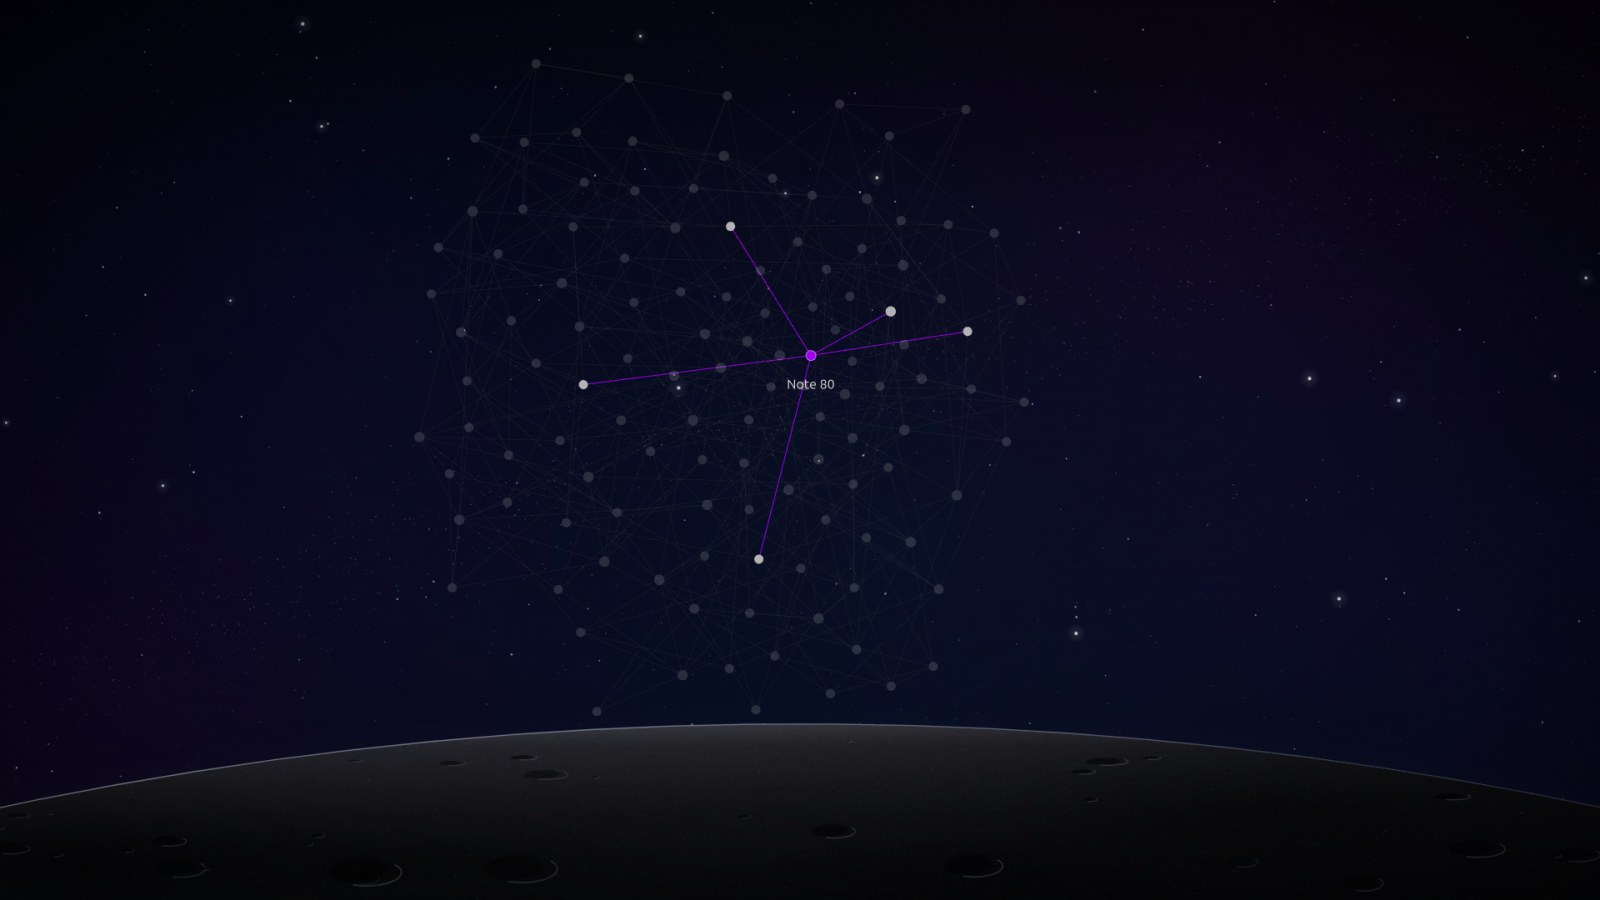
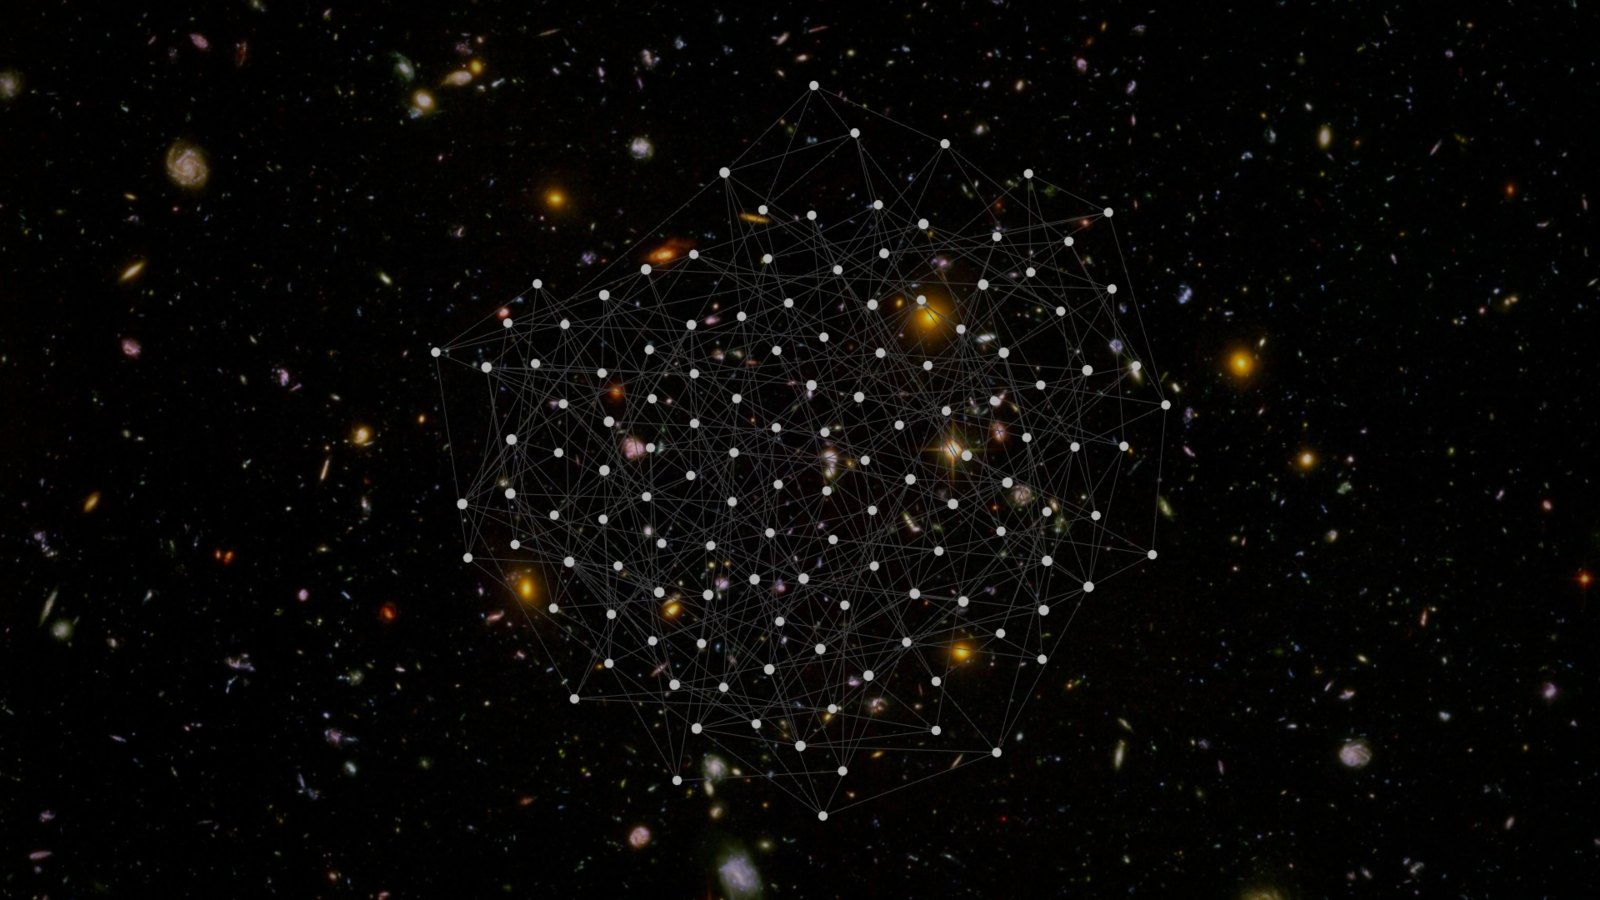
Remove the built-in Space background scene
The procedural space scene was dropped — a plugin should not ship a
baked-in backdrop. Backgrounds are now just the theme colour or an image
of your own (point it at any wallpaper, e.g. a NASA space photo). Trims
~190 lines. README hero reshot as a graph over a deep-space image.

diff --git a/main.js b/main.js
@@ -49,7 +49,7 @@ const DEFAULT_SETTINGS = {
   iconsOnTop: true, // true = sit behind the desktop icons and ignore the mouse (the lightweight default)
   fitPadding: 0.08,
   leafId: null,
-  background: 'space', // 'theme' | 'space' | 'image'
+  background: 'theme', // 'theme' | 'image'
   backgroundImage: '',
   backgroundDim: 0.2,
   nodeSize: 1,
@@ -344,193 +344,6 @@ function wallpaperSetting() {
   return null;
 }
 
-/* ---------- built-in space backdrop (drawn, not downloaded) ---------- */
-// <space-backdrop>
-
-// Deterministic pseudo-random numbers, so the sky is the same on every start.
-function seededRandom(seed) {
-  let a = seed >>> 0;
-  return () => {
-    a = (a + 0x6d2b79f5) | 0;
-    let t = Math.imul(a ^ (a >>> 15), 1 | a);
-    t = (t + Math.imul(t ^ (t >>> 7), 61 | t)) ^ t;
-    return ((t ^ (t >>> 14)) >>> 0) / 4294967296;
-  };
-}
-
-// Deep sky, a faint galactic band, stars, and a lunar horizon along the bottom edge.
-// Everything stays dark and low-contrast so graph nodes read as the brightest things in the scene.
-function drawSpaceBackdrop(canvas) {
-  const w = canvas.width, h = canvas.height;
-  const ctx = canvas.getContext('2d');
-  const random = seededRandom(20261115);
-  const unit = Math.max(w, h) / 1920;
-  const gaussian = () => (random() + random() + random() + random() - 2) / 2;
-
-  const sky = ctx.createLinearGradient(0, 0, 0, h);
-  sky.addColorStop(0, '#010208');
-  sky.addColorStop(0.6, '#040714');
-  sky.addColorStop(1, '#070b1a');
-  ctx.fillStyle = sky;
-  ctx.fillRect(0, 0, w, h);
-
-  // Nebula haze: a few very large, very faint colour clouds.
-  ctx.globalCompositeOperation = 'lighter';
-  const clouds = [
-    [0.2, 0.28, 0.52, '36,64,150'],
-    [0.76, 0.22, 0.46, '92,48,140'],
-    [0.56, 0.6, 0.58, '18,84,108'],
-    [0.08, 0.8, 0.38, '70,38,112'],
-    [0.92, 0.72, 0.42, '28,56,128'],
-  ];
-  for (const [x, y, r, rgb] of clouds) {
-    const g = ctx.createRadialGradient(x * w, y * h, 0, x * w, y * h, r * w);
-    g.addColorStop(0, `rgba(${rgb},0.15)`);
-    g.addColorStop(0.5, `rgba(${rgb},0.06)`);
-    g.addColorStop(1, `rgba(${rgb},0)`);
-    ctx.fillStyle = g;
-    ctx.fillRect(0, 0, w, h);
-  }
-
-  // Stars. Part of the faint ones gather along a diagonal band, like a galaxy seen edge-on.
-  const bandPoint = () => {
-    const t = random();
-    const spread = gaussian() * 0.11;
-    return [t * 1.2 - 0.1 + spread * 0.45, 0.82 - t * 0.74 + spread];
-  };
-  const tints = ['255,255,255', '205,220,255', '255,238,214', '190,205,255'];
-  const faint = Math.round((w * h) / 620);
-  for (let i = 0; i < faint; i++) {
-    const [x, y] = random() < 0.5 ? bandPoint() : [random(), random()];
-    const size = (0.35 + random() * 0.75) * unit;
-    ctx.fillStyle = `rgba(${tints[(random() * tints.length) | 0]},${0.1 + random() * 0.4})`;
-    ctx.fillRect(x * w, y * h, size, size);
-  }
-  const medium = Math.round((w * h) / 16000);
-  for (let i = 0; i < medium; i++) {
-    const x = random() * w, y = random() * h, r = (0.6 + random() * 0.7) * unit;
-    ctx.fillStyle = `rgba(${tints[(random() * tints.length) | 0]},${0.45 + random() * 0.4})`;
-    ctx.beginPath();
-    ctx.arc(x, y, r, 0, Math.PI * 2);
-    ctx.fill();
-  }
-  for (let i = 0; i < 16; i++) {
-    const x = random() * w, y = random() * h * 0.8, r = (1.1 + random() * 0.8) * unit;
-    const tint = tints[(random() * tints.length) | 0];
-    const glow = ctx.createRadialGradient(x, y, 0, x, y, r * 7);
-    glow.addColorStop(0, `rgba(${tint},0.5)`);
-    glow.addColorStop(0.25, `rgba(${tint},0.1)`);
-    glow.addColorStop(1, `rgba(${tint},0)`);
-    ctx.fillStyle = glow;
-    ctx.fillRect(x - r * 7, y - r * 7, r * 14, r * 14);
-    ctx.fillStyle = `rgba(${tint},0.95)`;
-    ctx.beginPath();
-    ctx.arc(x, y, r, 0, Math.PI * 2);
-    ctx.fill();
-  }
-  ctx.globalCompositeOperation = 'source-over';
-
-  // Lunar horizon: the top of a very large sphere, lit from the upper left.
-  const radius = w * 2.4;
-  const rise = h * 0.2;
-  const cx = w * 0.5, cy = h + radius - rise;
-  const horizon = () => {
-    ctx.beginPath();
-    ctx.arc(cx, cy, radius, Math.PI * 1.2, Math.PI * 1.8);
-  };
-  // Soft glow hugging the limb, drawn first so the surface covers its inner half.
-  ctx.save();
-  ctx.shadowColor = 'rgba(140,165,230,0.6)';
-  ctx.shadowBlur = 26 * unit;
-  ctx.strokeStyle = 'rgba(140,165,230,0.35)';
-  ctx.lineWidth = 2 * unit;
-  horizon();
-  ctx.stroke();
-  ctx.restore();
-
-  ctx.save();
-  ctx.beginPath();
-  ctx.arc(cx, cy, radius, 0, Math.PI * 2);
-  ctx.clip();
-  const ground = ctx.createLinearGradient(0, h - rise, 0, h);
-  ground.addColorStop(0, '#5a5d66');
-  ground.addColorStop(0.12, '#3a3c44');
-  ground.addColorStop(0.5, '#1d1e24');
-  ground.addColorStop(1, '#0c0d11');
-  ctx.fillStyle = ground;
-  ctx.fillRect(0, h - rise - 2, w, rise + 4);
-  // Light falls off to the right, away from the sun.
-  const falloff = ctx.createLinearGradient(0, 0, w, 0);
-  falloff.addColorStop(0, 'rgba(0,0,0,0)');
-  falloff.addColorStop(1, 'rgba(0,0,0,0.55)');
-  ctx.fillStyle = falloff;
-  ctx.fillRect(0, h - rise - 2, w, rise + 4);
-  const surfaceTop = (x) => cy - Math.sqrt(Math.max(radius * radius - (x - cx) * (x - cx), 0));
-  // Maria: a few broad, soft, darker plains.
-  for (let i = 0; i < 6; i++) {
-    const x = random() * w;
-    const top = surfaceTop(x);
-    const y = top + (h - top) * (0.25 + random() * 0.7);
-    const rx = (140 + random() * 260) * unit, ry = rx * (0.14 + random() * 0.12);
-    ctx.save();
-    ctx.translate(x, y);
-    ctx.scale(1, ry / rx);
-    const sea = ctx.createRadialGradient(0, 0, 0, 0, 0, rx);
-    sea.addColorStop(0, 'rgba(0,0,0,0.3)');
-    sea.addColorStop(1, 'rgba(0,0,0,0)');
-    ctx.fillStyle = sea;
-    ctx.fillRect(-rx, -rx, rx * 2, rx * 2);
-    ctx.restore();
-  }
-  // Regolith grain.
-  for (let i = 0; i < (w * rise) / 22; i++) {
-    const x = random() * w, y = h - random() * rise;
-    ctx.fillStyle = random() < 0.5 ? `rgba(255,255,255,${0.02 + random() * 0.05})` : `rgba(0,0,0,${0.05 + random() * 0.12})`;
-    ctx.fillRect(x, y, unit * (0.6 + random()), unit * (0.6 + random()));
-  }
-  // Craters, flattened by perspective: flatter near the horizon, rounder near the viewer.
-  // The wall nearest the sun is in shadow; the far wall catches the light.
-  for (let i = 0; i < 38; i++) {
-    const x = random() * w;
-    const top = surfaceTop(x);
-    const depth = Math.pow(random(), 1.5);
-    const y = top + (h - top) * (0.07 + depth * 0.93);
-    const rx = (5 + Math.pow(random(), 2.2) * 58) * unit * (0.35 + depth * 0.9);
-    const ry = rx * (0.15 + depth * 0.3);
-    const strength = 0.55 + random() * 0.45;
-    ctx.save();
-    ctx.beginPath();
-    ctx.ellipse(x, y, rx, ry, 0, 0, Math.PI * 2);
-    ctx.clip();
-    ctx.fillStyle = `rgba(8,9,12,${0.28 * strength})`;
-    ctx.fillRect(x - rx, y - ry, rx * 2, ry * 2);
-    ctx.fillStyle = `rgba(0,0,0,${0.5 * strength})`;
-    ctx.beginPath();
-    ctx.ellipse(x - rx * 0.34, y - ry * 0.22, rx * 0.95, ry * 0.95, 0, 0, Math.PI * 2);
-    ctx.fill();
-    ctx.restore();
-    ctx.lineWidth = Math.max(1, unit * (0.8 + rx * 0.025));
-    ctx.strokeStyle = `rgba(226,230,240,${0.26 * strength})`;
-    ctx.beginPath();
-    ctx.ellipse(x, y, rx, ry, 0, -Math.PI * 0.2, Math.PI * 0.62);
-    ctx.stroke();
-    ctx.strokeStyle = `rgba(0,0,0,${0.3 * strength})`;
-    ctx.beginPath();
-    ctx.ellipse(x, y, rx * 1.04, ry * 1.08, 0, Math.PI * 0.8, Math.PI * 1.62);
-    ctx.stroke();
-  }
-  ctx.restore();
-  // Sunlit limb, brightest toward the sun.
-  const edge = ctx.createLinearGradient(0, 0, w, 0);
-  edge.addColorStop(0, 'rgba(232,236,248,0.75)');
-  edge.addColorStop(0.6, 'rgba(214,220,236,0.4)');
-  edge.addColorStop(1, 'rgba(180,190,215,0.14)');
-  ctx.strokeStyle = edge;
-  ctx.lineWidth = Math.max(1, unit * 1.3);
-  horizon();
-  ctx.stroke();
-}
-// </space-backdrop>
 
 const shellQuote = (text) => `'${String(text).replace(/'/g, `'\\''`)}'`;
 
@@ -931,8 +744,7 @@ module.exports = class GraphWallpaperPlugin extends Plugin {
   /* ---------- picture behind the graph ---------- */
 
   backgroundMode() {
-    if (this.settings.background) return this.settings.background;
-    return (this.settings.backgroundImage || '').trim() ? 'image' : 'theme';
+    return this.settings.background === 'image' && (this.settings.backgroundImage || '').trim() ? 'image' : 'theme';
   }
 
   // The graph canvas is transparent, so a picture on the element behind it shows through.
@@ -940,24 +752,15 @@ module.exports = class GraphWallpaperPlugin extends Plugin {
     const container = this.leaf?.getContainer();
     const body = container?.doc?.body;
     if (!body) return;
-    const mode = this.backgroundMode();
-    if (mode === 'theme') {
+    if (this.backgroundMode() !== 'image') {
       body.classList.remove(IMAGE_CLASS);
       return;
     }
     try {
       const ratio = container.win.devicePixelRatio || 1;
-      let blob;
-      if (mode === 'space') {
-        const bounds = this.windowBounds(electronRemote());
-        const canvas = new OffscreenCanvas(Math.round(bounds.width * ratio), Math.round(bounds.height * ratio));
-        drawSpaceBackdrop(canvas);
-        blob = await canvas.convertToBlob({ type: 'image/jpeg', quality: 0.93 });
-      } else {
-        const file = (this.settings.backgroundImage || '').trim().replace(/^~(?=\/)/, os.homedir());
-        if (!file) throw new Error('no image file chosen');
-        blob = new Blob([await this.scaledBackground(file, ratio)], { type: 'image/jpeg' });
-      }
+      const file = (this.settings.backgroundImage || '').trim().replace(/^~(?=\/)/, os.homedir());
+      if (!file) throw new Error('no image file chosen');
+      const blob = new Blob([await this.scaledBackground(file, ratio)], { type: 'image/jpeg' });
       if (this.leaf?.getContainer() !== container) return;
       if (this.backgroundUrl) URL.revokeObjectURL(this.backgroundUrl);
       this.backgroundUrl = URL.createObjectURL(blob);
@@ -1422,12 +1225,9 @@ module.exports = class GraphWallpaperPlugin extends Plugin {
       const width = renderer.width * ratio, height = renderer.height * ratio;
       if (!width || !height) return;
       const pad = 1 - 2 * this.settings.fitPadding;
-      // The space scene has ground along the bottom; frame the graph in the sky above it.
-      const ground = this.backgroundMode() === 'space' ? 0.1 : 0;
-      const sky = height * (1 - ground);
-      const scale = Math.min((width * pad) / Math.max(maxX - minX, 1), (sky * pad) / Math.max(maxY - minY, 1));
+      const scale = Math.min((width * pad) / Math.max(maxX - minX, 1), (height * pad) / Math.max(maxY - minY, 1));
       const panX = width / 2 - ((minX + maxX) / 2) * scale;
-      const panY = sky / 2 - ((minY + maxY) / 2) * scale;
+      const panY = height / 2 - ((minY + maxY) / 2) * scale;
       const scaleDrift = Math.abs(scale / renderer.scale - 1);
       const panDrift = Math.max(Math.abs(panX - renderer.panX) / width, Math.abs(panY - renderer.panY) / height);
       if (!force && scaleDrift < 0.05 && panDrift < 0.03) return;
@@ -1504,11 +1304,10 @@ class GraphWallpaperSettingTab extends PluginSettingTab {
 
     new Setting(containerEl)
       .setName('Background')
-      .setDesc('What sits behind the graph.')
+      .setDesc('What sits behind the graph: your theme colour, or an image of your own.')
       .addDropdown((dropdown) =>
         dropdown
           .addOption('theme', 'Theme colour')
-          .addOption('space', 'Space')
           .addOption('image', 'Your image')
           .setValue(plugin.backgroundMode())
           .onChange(async (value) => {

diff --git a/README.md b/README.md
@@ -2,7 +2,7 @@
 
 Show your live Obsidian graph view as the desktop wallpaper, on Linux (X11) and Windows.
 
-![The graph wallpaper: an Obsidian graph over a starfield and lunar horizon](docs/screenshot.jpg)
+![Vault Graph Wallpaper: an Obsidian graph over a deep-space image](docs/screenshot.jpg)
 
 The wallpaper is a real Obsidian popout window showing the real graph view, so it has the same filters, colour groups, theme, CSS snippets and plugins as any other graph tab, and it updates as the vault changes. The plugin strips the window chrome and places the window on the desktop layer — under every other window, out of the taskbar and Alt+Tab.
 
@@ -29,7 +29,7 @@ Settings → Vault Graph Wallpaper (only the controls that apply to your setup a
 
 - **Show the graph wallpaper** — put your live graph on the desktop, now and whenever this vault opens.
 - **Interactive** — respond to the mouse (zoom, drag, click a node to open it, cursor gravity). Off: the graph sits behind your desktop icons and uses no resources.
-- **Appearance** — background (theme colour, the built-in space scene, or your own image), how much to dim it, node size, and how much of the screen the graph fills.
+- **Appearance** — background (your theme colour, or an image of your own), how much to dim it, node size, and how much of the screen the graph fills.
 - **Motion** (interactive only) — cursor gravity and its reach, and how long after you stop before a zoomed view eases back to the whole graph.
 - **Startup** — launch Obsidian at login (minimised), and keep a snapshot of the graph as your system wallpaper so the desktop shows it before Obsidian loads and while it is closed.
 - **Display** (multi-monitor only) — which screen the graph covers.

diff --git a/CHANGELOG.md b/CHANGELOG.md
@@ -9,8 +9,7 @@ First release.
   cursor gravity that bends nearby nodes as the pointer passes.
 - **Windows 10/11:** experimental, display-only — the live graph shows behind the
   desktop icons via a PowerShell helper (no cursor gravity or clicking).
-- Backgrounds: theme colour, a built-in space scene (stars over a lunar horizon),
-  or your own image.
+- Backgrounds: your theme colour, or an image of your own.
 - Linux only: launch Obsidian at login (minimised), and keep a snapshot as the
   system wallpaper so the graph shows before Obsidian has loaded.
 - Does no work while idle; repaints only when something actually moves.
